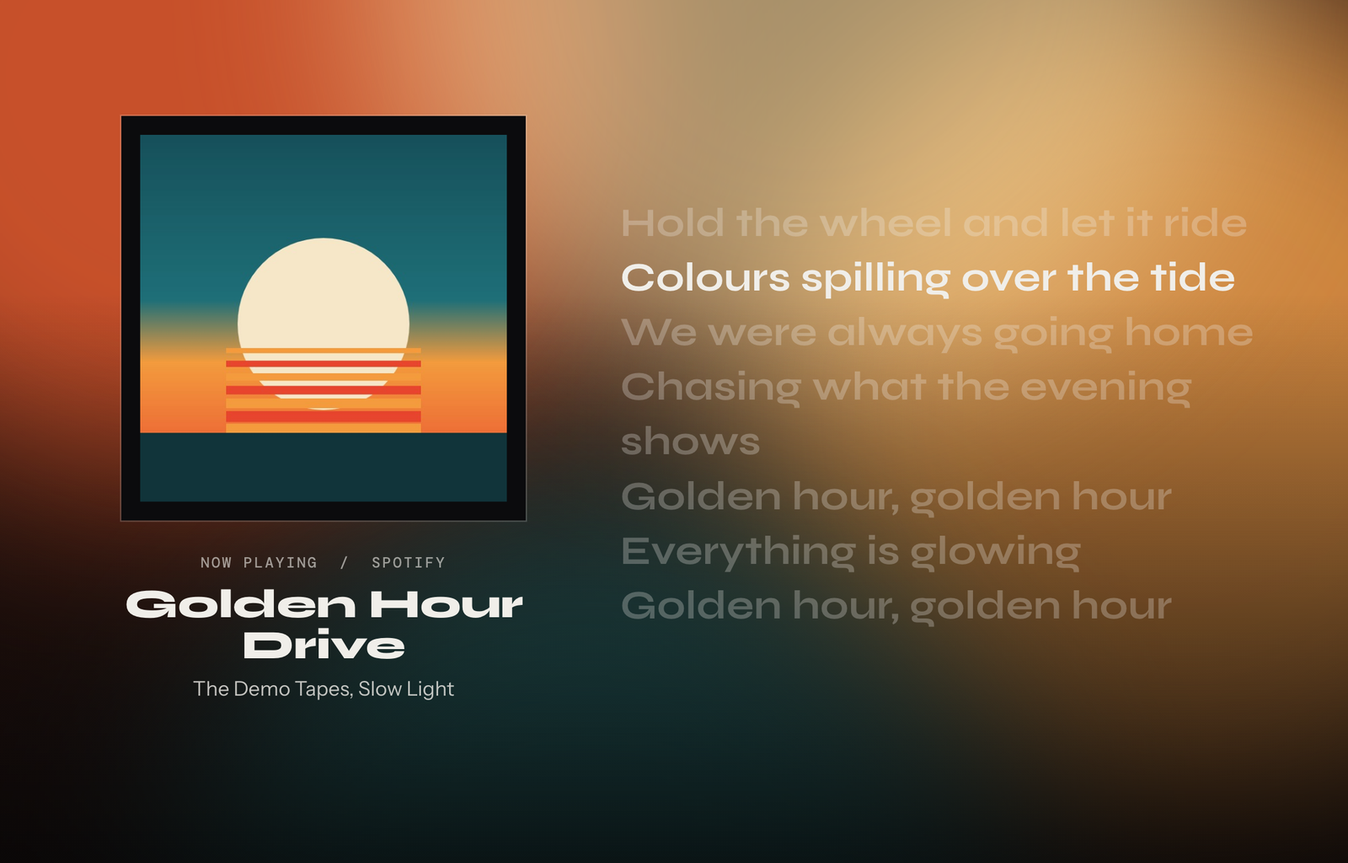
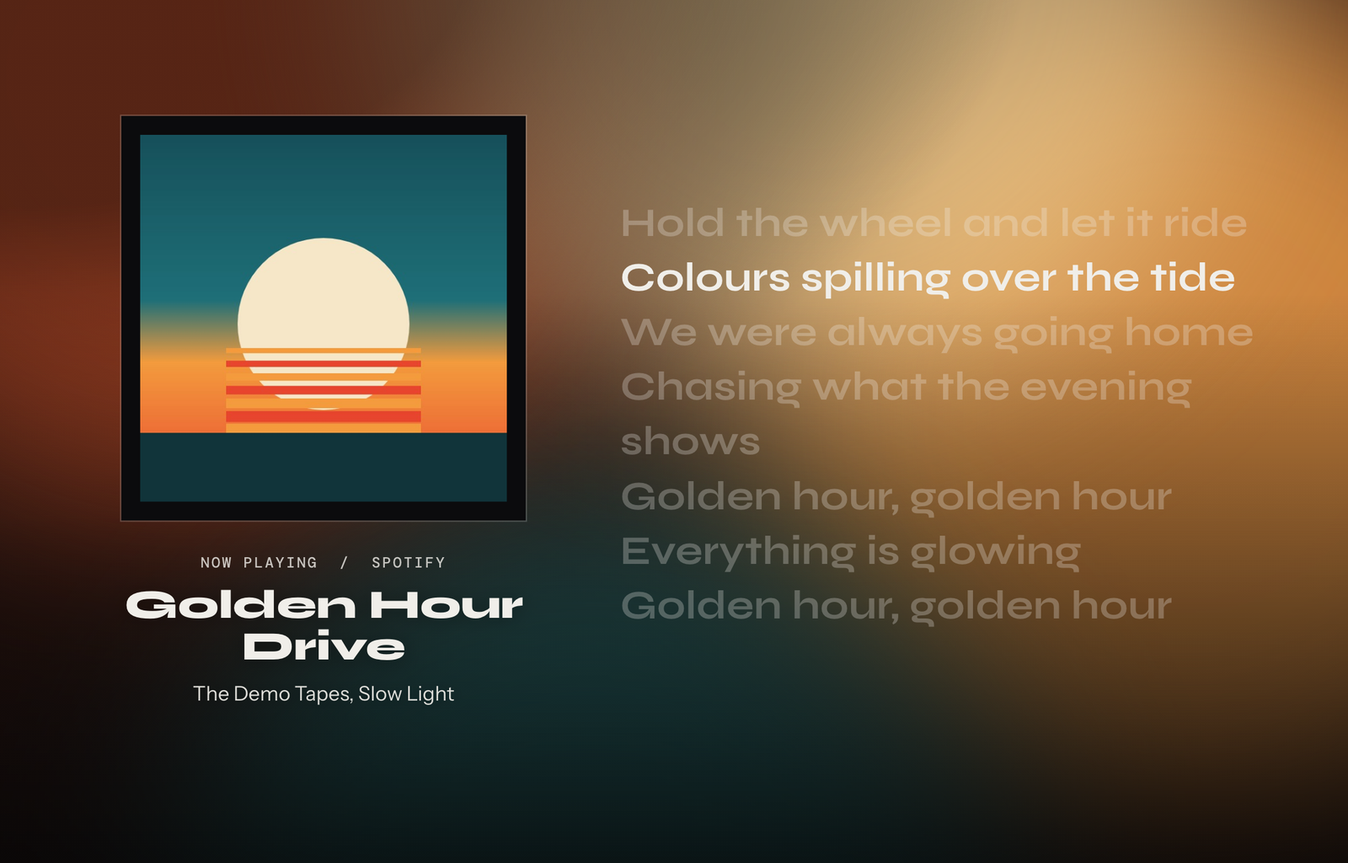
Brightness check for each lamp, lyrics never cut off, Stage main screen redesigned after a design review

Changed region(s): [[0.0, 0.0, 0.6562, 0.5], [0.0938, 0.6875, 0.3438, 0.8125], [0.3125, 0.6875, 0.375, 0.7188]]

diff --git a/server/web/demo.js b/server/web/demo.js
@@ -5,6 +5,7 @@
      /?demo=1&theme=c&screen=full          screens: main, full, settings, lyrics (lyrics is the phone one)
      /?demo=1&theme=d&screen=full&lyrics=1 full screen with the synced lyrics
      &pos=71                               where in the song it is, in seconds
+     &pal=cool|pale   &title=long|one   &art=none   &playing=0   &power=0   &ly=long     other situations to check a design against
 
    Nothing is read from or sent to the real server while it is on: state comes from here, and every
    command is swallowed, so clicking around cannot touch your lamps. Loaded only when ?demo=1 is in the address. */
@@ -13,37 +14,50 @@
   var Q = new URLSearchParams(location.search);
   var START = +Q.get('pos') || 71, T0 = Date.now();
 
+  // palettes to check the designs against: warm (the default), cool (blue and navy) and pale (pastel, near white)
+  var PALS = {
+    warm: { sky: ['#16505a', '#1e6f78', '#f39b3d', '#e8452f'], sun: '#f6e7c8', a: '#e8452f', b: '#f39b3d', sea: '#10343a',
+      left: ['#e8452f', '#ee5f31', '#f37c38', '#f6a24a', '#f6c776', '#f6dfa6', '#fff3dc'], right: ['#1e6f78', '#2b8587', '#58a07f', '#b9b45c', '#f39b3d', '#ef6a33', '#e8452f'],
+      raw: ['#e8452f', '#f39b3d', '#1e6f78', '#f6e7c8', '#7a2e3a'], lamp: ['#ee5f31', '#f6a24a', '#2b8587', '#f6dfa6', '#9a3f4c'] },
+    cool: { sky: ['#0b1d4a', '#1d3f8f', '#4f86d6', '#a9d3f0'], sun: '#e8f3ff', a: '#2c5db8', b: '#6fa6e8', sea: '#08142e',
+      left: ['#0b1d4a', '#14307a', '#1d4aa8', '#2f6bd0', '#4f8ce0', '#86b6ee', '#d6e8fb'], right: ['#d6e8fb', '#86b6ee', '#4f8ce0', '#2f6bd0', '#1d4aa8', '#14307a', '#0b1d4a'],
+      raw: ['#0b1d4a', '#1d4aa8', '#4f8ce0', '#d6e8fb', '#27406e'], lamp: ['#14307a', '#2f6bd0', '#86b6ee', '#d6e8fb', '#27406e'] },
+    pale: { sky: ['#f4e9ef', '#f0dcdf', '#f7e6cf', '#e5eef0'], sun: '#fffaf0', a: '#e9c5cf', b: '#f2d9b8', sea: '#d9e6ea',
+      left: ['#e9c5cf', '#eccdd0', '#efd5d0', '#f2dcc8', '#f5e3c8', '#f8ecd8', '#fffaf0'], right: ['#d9e6ea', '#dfe9e6', '#e5ecdf', '#ebeed7', '#f1ecd1', '#f5e8d0', '#f7e1d4'],
+      raw: ['#e9c5cf', '#f2d9b8', '#d9e6ea', '#fffaf0', '#cdb8c2'], lamp: ['#eccdd0', '#f2dcc8', '#dfe9e6', '#fffaf0', '#d6c4cc'] }
+  };
+  var P = PALS[Q.get('pal')] || PALS.warm;
   function cover() {                     // abstract sunset cover, drawn here so no real album art is needed
     var c = document.createElement('canvas'); c.width = c.height = 640;
     var g = c.getContext('2d'), sky = g.createLinearGradient(0, 0, 0, 640);
-    sky.addColorStop(0, '#16505a'); sky.addColorStop(0.45, '#1e6f78'); sky.addColorStop(0.62, '#f39b3d'); sky.addColorStop(1, '#e8452f');
+    sky.addColorStop(0, P.sky[0]); sky.addColorStop(0.45, P.sky[1]); sky.addColorStop(0.62, P.sky[2]); sky.addColorStop(1, P.sky[3]);
     g.fillStyle = sky; g.fillRect(0, 0, 640, 640);
-    g.fillStyle = '#f6e7c8'; g.beginPath(); g.arc(320, 330, 150, 0, 6.2832); g.fill();
-    for (var i = 0; i < 7; i++) { g.fillStyle = i % 2 ? '#e8452f' : '#f39b3d'; g.fillRect(150, 372 + i * 22, 340, 9 + i * 2); }   // sun stripes over the water
-    g.fillStyle = '#10343a'; g.fillRect(0, 520, 640, 120);
+    g.fillStyle = P.sun; g.beginPath(); g.arc(320, 330, 150, 0, 6.2832); g.fill();
+    for (var i = 0; i < 7; i++) { g.fillStyle = i % 2 ? P.a : P.b; g.fillRect(150, 372 + i * 22, 340, 9 + i * 2); }   // sun stripes over the water
+    g.fillStyle = P.sea; g.fillRect(0, 520, 640, 120);
     return c.toDataURL('image/jpeg', 0.92);
   }
-  var ART = cover();
-  var LEFT = ['#e8452f', '#ee5f31', '#f37c38', '#f6a24a', '#f6c776', '#f6dfa6', '#fff3dc'];
-  var RIGHT = ['#1e6f78', '#2b8587', '#58a07f', '#b9b45c', '#f39b3d', '#ef6a33', '#e8452f'];
+  var ART = Q.get('art') === 'none' ? '' : cover();
+  var LEFT = P.left, RIGHT = P.right;
   var DUR = 218;
 
   function state() {
     var pos = Math.min(DUR - 1, START + (Date.now() - T0) / 1000);
     return {
-      track: 'Golden Hour Drive', artist: 'The Demo Tapes', album: 'Slow Light', art_url: ART,
+      track: Q.get('title') === 'long' ? 'The Ballad of Someone With A Very Long Name (Remastered 2011)' : Q.get('title') === 'one' ? 'Go' : 'Golden Hour Drive',
+      artist: Q.get('title') === 'long' ? 'An Artist With A Rather Long Name And Friends' : 'The Demo Tapes', album: 'Slow Light', art_url: ART,
       hex1: LEFT[3], hex2: RIGHT[3], seg_colors: LEFT, seg_colors_right: RIGHT,
-      palette_raw: ['#e8452f', '#f39b3d', '#1e6f78', '#f6e7c8', '#7a2e3a'], palette_lamp: ['#ee5f31', '#f6a24a', '#2b8587', '#f6dfa6', '#9a3f4c'],
+      palette_raw: P.raw, palette_lamp: P.lamp,
       spatial_mode: 'segmented', motion_mode: 'static', flow_speed: 12, trans_speed: 3, vibrancy: 1.15,
       version: '3.2.1', update_available: false, update_version: '3.2.1', update_url: 'https://github.com/omerham/glowtrack/releases/latest',
       update_checked_at: 1, check_updates: true,
       music_pulse: true, current_bpm: 118, detected_bpm: 118, bpm_source: 'Deezer', bpm_manual: false, bpm_known: true, pulse_depth: 0.6,
-      brightness: 85, is_powered_on: true, lamp_ips: ['192.168.1.21', '192.168.1.22'], available_ips: ['192.168.1.21', '192.168.1.22'],
+      brightness: 85, is_powered_on: Q.get('power') !== '0', lamp_ips: ['192.168.1.21', '192.168.1.22'], available_ips: ['192.168.1.21', '192.168.1.22'],
       left_ip: '192.168.1.21', right_ip: '192.168.1.22', lamp_online: { '192.168.1.21': true, '192.168.1.22': true },
       identifying_ip: null, online_count: 2, configured_count: 2, status_known: true, status_error: '',
       is_swapped_lr: false, is_inverted_tb: false, dynamic_intensity: false, dark_boost: 0.65, preview_mode: 'smooth', fs_motion: 3,
       white_accent: true, volume: 60, shuffle: false, repeat: false, flow: null, intensity_factor: 1, intensity_section: 'Normal',
-      player_pos: pos, track_dur: DUR, is_playing: true, locked_swatch_index: null, is_ad: false,
+      player_pos: pos, track_dur: DUR, is_playing: Q.get('playing') !== '0', locked_swatch_index: null, is_ad: false,
       devices: [], discovered_devices: [], scanning_devices: false, player: 'spotify', source_name: 'Spotify', default_theme: 'classic',
       can_shuffle_repeat: true
     };
@@ -54,6 +68,17 @@
     'Hold the wheel and let it ride', 'Colours spilling over the tide', 'We were always going home', 'Chasing what the evening shows',
     'Golden hour, golden hour', 'Everything is glowing', 'Golden hour, golden hour', 'Nowhere left to be going'
   ].map(function (w, i) { return [Math.round((12 + i * 6.5) * 100) / 100, w]; });
+
+  if (Q.get('ly') === 'long') {         // long lines wrap onto several rows: a check that the lyrics column never cuts them off
+    LYRICS = ['Windows down on the coast road while the whole sky turns to amber and the radio hums along',
+      'Every light along the harbour is leaning slowly over toward the water and the waiting tide',
+      'We were always going home the long way round, counting all the colours on the wet and shining street',
+      'Hold the wheel and let it ride, there is nowhere left to be and nothing left to prove tonight',
+      'Golden hour, golden hour, everything is glowing and the evening shows us what we came here for',
+      'Chasing what the evening shows us, every window every wave a little lighter than before',
+      'Nowhere left to be going when the light is falling like this over the edge of everything we know',
+      'And we keep on driving into the colours until the colours have all gone'].map(function (w, i) { return [Math.round((12 + i * 6.5) * 100) / 100, w]; });
+  }
 
   function json(obj) { return Promise.resolve(new Response(JSON.stringify(obj), { status: 200, headers: { 'Content-Type': 'application/json' } })); }
   var realFetch = window.fetch.bind(window);
@@ -84,11 +109,15 @@
   }
   window.addEventListener('load', function () { setTimeout(function () { window.dispatchEvent(new Event('resize')); }, 700); });   // fit the layout once fonts and sizes have settled
   if (Q.get('shot') === '1') {           // for screenshots: nothing mid-fade, so the picture is the finished state
-    var st = document.createElement('style'); st.textContent = '*:not(#trackProgressBar):not(#fsProgressBar), *::before, *::after { transition: none !important; } #themeRoot { padding: 0 !important; }'; document.head.appendChild(st);
+    var st = document.createElement('style'); st.textContent = (Q.get('notext') === '1' ? '#themeRoot *, #themeRoot *::before { color: transparent !important; text-shadow: none !important; } ' : '') + '*:not(#trackProgressBar):not(#fsProgressBar), *::before, *::after { transition: none !important; } #themeRoot { padding: 0 !important; }'; document.head.appendChild(st);
   }
   window.addEventListener('load', function () {         // where the design sits in the window, so a screenshot can be cropped to it
     setTimeout(function () {
       var d = document.querySelector('#themeRoot:not([hidden]) .design'), r = (d || document.getElementById('appShell') || document.body).getBoundingClientRect();
+      var boxes = {}; ['.credit .k', '.credit h3', '.credit p', '.modes .m:not(.on)', '.dock .t', '.dock .tl2 span'].forEach(function (sel) {   // where the text sits, for contrast checks
+        var e = document.querySelector('#themeRoot .design ' + sel); if (e) { var b = e.getBoundingClientRect(), cs = getComputedStyle(e); boxes[sel] = [b.left, b.top, b.width, b.height, cs.color, cs.opacity]; }
+      });
+      document.documentElement.setAttribute('data-boxes', JSON.stringify(boxes));
       if (r) document.documentElement.setAttribute('data-rect', JSON.stringify([r.left, r.top, r.width, r.height, window.devicePixelRatio, window.innerWidth, window.innerHeight]));
     }, 2500);
   });

diff --git a/server/web/themes.css b/server/web/themes.css
@@ -119,36 +119,49 @@
 .dbg .b2 { right: -20vmax; top: 4vh; background: var(--p1); animation: dbgB 47s ease-in-out infinite alternate; }
 .dbg .b3 { left: 12vw; bottom: -34vmax; background: var(--p2); animation: dbgC 53s ease-in-out infinite alternate; }
 .dbg .b4 { right: 8vw; top: -30vmax; background: var(--p3); opacity: .6; animation: dbgD 41s ease-in-out infinite alternate; }
-.dbg .vig { position: absolute; inset: 0; background: linear-gradient(to bottom, transparent 36%, rgba(4,4,5,.5) 68%, rgba(4,4,5,.93) 100%); }
+.dbg .vig { position: absolute; inset: 0; background: radial-gradient(ellipse 840px 470px at 0 0, rgba(4,4,5,var(--scrim, .45)) 0, rgba(4,4,5,var(--scrim, .45)) 46%, rgba(4,4,5,0) 100%), linear-gradient(to bottom, transparent 36%, rgba(4,4,5,.5) 68%, rgba(4,4,5,.93) 100%); }   /* the corner behind the title is darkened more when the album is light, so cream text always reads */
 @keyframes dbgA { to { transform: translate(34vw, 22vh) scale(1.25); } }
 @keyframes dbgB { to { transform: translate(-30vw, 26vh) scale(.85); } }
 @keyframes dbgC { to { transform: translate(30vw, -16vh) scale(1.3); } }
 @keyframes dbgD { to { transform: translate(-26vw, 30vh) scale(1.15); } }
 @media (prefers-reduced-motion: reduce) { .dbg .bl { animation: none; } #themeRoot *, #themeRoot *::before, #themeRoot *::after { transition-duration: .01ms !important; animation-duration: .01ms !important; scroll-behavior: auto !important; } }
-.D .lampw { position: absolute; bottom: 104px; width: 46px; display: flex; flex-direction: column-reverse; gap: 3px; transform: translateX(-50%); }
+.D .lampw { position: absolute; bottom: 132px; width: 46px; display: flex; flex-direction: column-reverse; gap: 3px; transform: translateX(-50%); }
 .D .lampw { -webkit-mask-image: linear-gradient(to top, transparent 0, rgba(0,0,0,.35) 18px, #000 72px); mask-image: linear-gradient(to top, transparent 0, rgba(0,0,0,.35) 18px, #000 72px); }
 .D .lampw i { height: 46px; background: var(--c); box-shadow: 0 0 40px 10px var(--c); }
 .D .lampw.l { left: 27%; } .D .lampw.r { left: 73%; }
 .D .frame { position: absolute; left: 50%; top: 108px; width: 364px; height: 364px; transform: translateX(-50%); padding: 12px; background: #0b0b0d; box-shadow: 0 0 0 1px rgba(255,255,255,.18); }
 .D .frame div { width: 100%; height: 100%; background-image: var(--cov); background-size: cover; }
 .D .credit { position: absolute; left: 36px; top: 34px; }
-.D .credit .k { font: 500 11px "DM Mono", monospace; letter-spacing: .12em; text-transform: uppercase; opacity: .6; margin-bottom: 8px; }
-.D .credit h3 { font: 800 34px/1.02 "Syne", sans-serif; margin: 0 0 6px; width: 380px; letter-spacing: -.01em; }
-.D .credit p { margin: 0; opacity: .8; font-size: 15px; }
+.D .credit .k { font: 500 11px "DM Mono", monospace; letter-spacing: .12em; text-transform: uppercase; opacity: .8; margin-bottom: 8px; }
+.D .credit h3 { font: 800 28px/1.04 "Syne", sans-serif; margin: 0 0 8px; width: 380px; letter-spacing: -.01em; text-shadow: 0 1px 14px rgba(0,0,0,.35); }
+.D .credit p { margin: 0; opacity: .92; font-size: 15px; text-shadow: 0 1px 10px rgba(0,0,0,.4); }
 .D .modes { position: absolute; right: 36px; top: 34px; display: flex; gap: 8px; }
 .D .m { padding: 10px 16px; border: 1px solid rgba(255,255,255,.28); font: 500 11px "DM Mono", monospace; letter-spacing: .1em; text-transform: uppercase; background: rgba(5,5,6,.5); }
 .D .m:hover { border-color: #fff; }
 .D .m.on { background: #fff; color: #08080a; border-color: #fff; }
-.D .dock { position: absolute; left: 36px; right: 36px; bottom: 26px; height: 56px; display: flex; align-items: center; gap: 26px; background: rgba(5,5,6,.78); border: 1px solid rgba(255,255,255,.12); padding: 0 20px; font: 500 11px "DM Mono", monospace; letter-spacing: .08em; text-transform: uppercase; }
+.D .dock { position: absolute; left: 36px; right: 36px; bottom: 26px; height: 88px; display: flex; flex-direction: column; justify-content: center; gap: 14px; background: rgba(5,5,6,.78); border: 1px solid rgba(255,255,255,.12); padding: 0 20px; font: 500 11px "DM Mono", monospace; letter-spacing: .08em; text-transform: uppercase; }
+.D .dock .r1, .D .dock .r2 { display: flex; align-items: center; gap: 22px; }
 .D .dock .tp { display: flex; gap: 6px; }
 .D .dock .tp button { width: 34px; height: 34px; display: grid; place-items: center; border: 1px solid rgba(255,255,255,.2); }
 .D .dock .tp button.on { background: #fff; color: #000; }
-.D .dock .tl2 { flex: 1; display: flex; align-items: center; gap: 12px; }
-.D .dock .tl2 .tk { position: relative; flex: 1; height: 2px; background: rgba(255,255,255,.22); }
+.D .dock .tl2 { flex: 1; display: flex; align-items: center; gap: 14px; }
+.D .dock .tl2 .tk { position: relative; flex: 1; height: 2px; background: rgba(255,255,255,.22); cursor: pointer; }
 .D .dock .tl2 .tk i { position: absolute; left: 0; top: -1px; height: 4px; width: calc(var(--prog) * 100%); background: #fff; }
-.D .dock input[type=range] { width: 120px; accent-color: #fff; }
-.D .dock .t { opacity: .5; padding: 6px 0; border-bottom: 1px solid transparent; }
-.D .dock .t.on { opacity: 1; border-bottom-color: #fff; }
+.D .dock .r2 { justify-content: space-between; }
+.D .dock .br { display: flex; align-items: center; gap: 14px; }
+.D .dock input[type=range] { width: 200px; accent-color: #fff; }
+.D .dock .tg { display: flex; gap: 22px; }
+.D .dock .nv { display: flex; gap: 22px; padding-left: 22px; border-left: 1px solid rgba(255,255,255,.2); }
+.D .dock .t { opacity: .9; padding: 6px 0; border-bottom: 1px solid transparent; }
+.D .dock .t.sw { opacity: .62; display: flex; align-items: center; gap: 8px; }          /* switches: a square that fills when on */
+.D .dock .t.sw::before { content: ''; width: 8px; height: 8px; border: 1px solid currentColor; }
+.D .dock .t.sw.on { opacity: 1; }
+.D .dock .t.sw.on::before { background: #fff; border-color: #fff; }
+.D .dock .t.on { border-bottom-color: transparent; }
+/* phone: the dock is still one wrapping block with the older look for its buttons */
+.D.ph .dock { flex-direction: row; }
+.D.ph .dock .t { opacity: .5; }
+.D.ph .dock .t.on { opacity: 1; border-bottom-color: #fff; }
 
 
 /* ============ shared: lyrics + settings primitives ============ */

diff --git a/server/web/themes.js b/server/web/themes.js
@@ -80,10 +80,11 @@
         '<div class="frame"><div></div></div>' +
         '<div class="credit"><div class="k">Now playing &nbsp;/&nbsp; <span data-b="src"></span></div><h3 data-b="title"></h3><p data-b="artistalbum"></p></div>' +
         '<div class="modes">' + MODES.map(pic).join('') + '</div>' +
-        '<div class="dock"><div class="tp"><button data-step="-1" aria-label="Previous">' + ICON.prev + '</button><button data-play aria-label="Play or pause"><span data-b="playicon"></span></button><button data-step="1" aria-label="Next">' + ICON.next + '</button></div>' +
-        '<div class="tl2"><span data-b="pos"></span><div class="tk" data-seek><i></i></div><span data-b="dur"></span></div>' +
-        '<label style="display:flex;align-items:center;gap:10px">Brightness <input type="range" id="dBright" min="5" max="100" data-range aria-label="Brightness"></label>' +
-        '<button class="t" data-toggle="pulse">Pulse</button><button class="t" data-toggle="energy">Energy</button><button class="t" data-power>Power</button><button class="t" data-open="settings">Settings</button><button class="t" data-open="full">Full screen</button></div></div>';
+        '<div class="dock"><div class="r1"><div class="tp"><button data-step="-1" aria-label="Previous">' + ICON.prev + '</button><button data-play aria-label="Play or pause"><span data-b="playicon"></span></button><button data-step="1" aria-label="Next">' + ICON.next + '</button></div>' +
+        '<div class="tl2"><span data-b="pos"></span><div class="tk" data-seek><i></i></div><span data-b="dur"></span></div></div>' +
+        '<div class="r2"><label class="br">Brightness <input type="range" id="dBright" min="5" max="100" data-range aria-label="Brightness"></label>' +
+        '<div class="tg"><button class="t sw" data-toggle="pulse">Pulse</button><button class="t sw" data-toggle="energy">Energy</button><button class="t sw" data-power>Power</button></div>' +
+        '<div class="nv"><button class="t" data-open="settings">Settings</button><button class="t" data-open="full">Full screen</button></div></div></div></div>';
     }
   };
 
@@ -352,6 +353,8 @@
     if (T.sig.pal !== palSig) {
       T.sig.pal = palSig;
       pal.forEach(function (c, i) { var r = rgb(c); root.style.setProperty('--p' + i, c); root.style.setProperty('--t' + i, bestText(r)); });
+      var yl = Math.max(wl(rgb(pal[0])), wl(rgb(pal[1])) * 0.6, wl(rgb(pal[3])) * 0.6, 0.2);   // how light the colours behind the title can get
+      root.style.setProperty('--scrim', Math.max(0.3, Math.min(0.86, 1 - 0.19 / yl)).toFixed(2));    // darken that corner just enough for cream text to read (about 4.5:1)
       if (d === 'c') root.style.background = pal[0]; else root.style.background = '';
       root.style.setProperty('--cov', 'radial-gradient(circle at 24% 22%, ' + pal[0] + ' 0 34%, transparent 62%), radial-gradient(circle at 78% 78%, ' + pal[1] + ' 0 30%, transparent 60%), linear-gradient(135deg, ' + pal[2] + ', ' + pal[3] + ')');
       T.sig.art = null;
@@ -491,7 +494,16 @@
     } else {
       html = '<div class="l cur msg">' + ({ loading: 'Loading lyrics...', instrumental: 'Instrumental', error: 'Could not load lyrics', none: 'No lyrics found for this song' }[st] || 'No lyrics') + '</div>';
     }
-    holders.forEach(function (h) { h.innerHTML = html; });
+    holders.forEach(function (h) {
+      h.innerHTML = html;
+      // Long lines wrap onto several rows, so fewer of them fit: show only as many as the column holds
+      // (dropping from the end, so the line being sung and the ones before it always stay visible)
+      while (h.children.length > 2) {
+        var hb = h.getBoundingClientRect(), a = h.firstElementChild.getBoundingClientRect(), z = h.lastElementChild.getBoundingClientRect();
+        if (hb.height < 40 || (z.bottom <= hb.bottom + 1 && a.top >= hb.top - 1)) break;
+        h.removeChild(h.lastElementChild);
+      }
+    });
   }
   function esc(t) { return String(t).replace(/[&<>]/g, function (c) { return { '&': '&amp;', '<': '&lt;', '>': '&gt;' }[c]; }); }
 

diff --git a/server/lamps.py b/server/lamps.py
@@ -39,6 +39,9 @@ class GoveeController:
 
         # Lamp reply tracking (scan + devStatus answers arrive on port 4002)
         self.last_seen = {}            # ip -> time of last reply
+        self.status = {}               # ip -> what the lamp last said about itself: on/off, brightness, colour
+        self._heal_tries = {}          # ip -> brightness corrections sent in a row
+        self._heal_gave_up = {}        # ip -> when we stopped correcting it
         self.listener_ok = False       # False if port 4002 could not be opened
         self.listener_error = ""
         self.ip_lock = threading.Lock()
@@ -76,6 +79,9 @@ class GoveeController:
                     resp = json.loads(data.decode("utf-8"))
                     data_ = resp.get("msg", {}).get("data", {})
                     reported_ip = data_.get("ip") or src_ip
+                    if resp.get("msg", {}).get("cmd") == "devStatus" and "brightness" in data_:
+                        self.status[src_ip] = {"on": data_.get("onOff"), "brightness": data_.get("brightness"),
+                                               "color": data_.get("color"), "kelvin": data_.get("colorTemInKelvin"), "t": time.time()}
                     if data_.get("sku") and _is_local_ip(reported_ip):
                         self.skus[reported_ip] = str(data_["sku"])
                 except Exception:
@@ -131,7 +137,46 @@ class GoveeController:
                     d.ping()
                 except Exception:
                     pass
-            time.sleep(15.0)
+            time.sleep(1.5)                      # let the lamps answer, then check what they said
+            try:
+                self.heal_brightness()
+            except Exception as e:
+                print(f"[!] Brightness check failed: {e}")
+            time.sleep(13.5)
+
+    BRIGHTNESS_TOLERANCE = 3       # a lamp within this many percent of the wanted level counts as right
+    BRIGHTNESS_TRIES = 8           # corrections tried in a row (one every 15 s) before giving up for a while
+    BRIGHTNESS_BURST = 3           # copies of each correction: UDP drops packets, and a lamp busy with colour frames misses some
+
+    def heal_brightness(self, now=None):
+        """Makes every lamp match the brightness Glowtrack is set to. The brightness command is only sent when the
+        slider moves (and once at start), so a lamp that missed it, was offline at that moment or was changed from
+        the Govee app stays at its own level while the other lamp is right. Each lamp reports its brightness in its
+        status reply: when it differs, send the command to that lamp alone."""
+        now = time.time() if now is None else now
+        want = max(1, min(100, int(self.brightness_pct)))
+        for ip in list(self.ips):
+            st = self.status.get(ip)
+            if not st or now - st["t"] > 30 or not st.get("on"):
+                continue                         # no fresh report, or the lamp is off: nothing to compare
+            try:
+                have = int(st["brightness"])
+            except (TypeError, ValueError):
+                continue
+            if abs(have - want) <= self.BRIGHTNESS_TOLERANCE:
+                self._heal_tries[ip] = 0
+                continue
+            tries = self._heal_tries.get(ip, 0)
+            if tries >= self.BRIGHTNESS_TRIES:
+                if now - self._heal_gave_up.get(ip, now) > 300:      # try again every five minutes
+                    self._heal_tries[ip] = 0
+                self._heal_gave_up.setdefault(ip, now)
+                continue
+            self._heal_tries[ip] = tries + 1
+            print(f"[*] Lamp {ip} was at {have}% brightness, wanted {want}%: correcting")
+            for _ in range(self.BRIGHTNESS_BURST):
+                self.send_cmd({"msg": {"cmd": "brightness", "data": {"value": want}}}, ips=[ip])
+                time.sleep(0.12)
 
     def sync_ordered_ips(self):
         new_ips = []

diff --git a/tests/test_engine.py b/tests/test_engine.py
@@ -938,6 +938,51 @@ class OtherDevicesTest(unittest.TestCase):
         self.assertEqual((again.name, again.side), ("Beam", "right"))
 
 
+class BrightnessHealTest(unittest.TestCase):
+    def _lamps(self, want=100):
+        import lamps
+        c = lamps.GoveeController(["10.0.0.1", "10.0.0.2"])
+        c.brightness_pct = want
+        sent = []
+        c.send_cmd = lambda msg, ips=None: sent.append((msg["msg"]["cmd"], msg["msg"]["data"].get("value"), ips))
+        return c, sent
+
+    def _report(self, c, ip, brightness, on=1, t=None):
+        c.status[ip] = {"on": on, "brightness": brightness, "color": None, "kelvin": 0, "t": time.time() if t is None else t}
+
+    def test_a_lamp_at_the_wrong_brightness_is_corrected_alone(self):
+        c, sent = self._lamps(100)
+        self._report(c, "10.0.0.1", 5)              # the left lamp missed the command
+        self._report(c, "10.0.0.2", 100)
+        c.heal_brightness()
+        self.assertEqual(sent, [("brightness", 100, ["10.0.0.1"])] * c.BRIGHTNESS_BURST)     # only that lamp, a few copies
+
+    def test_lamps_that_match_are_left_alone(self):
+        c, sent = self._lamps(80)
+        self._report(c, "10.0.0.1", 80)
+        self._report(c, "10.0.0.2", 82)             # within the tolerance
+        c.heal_brightness()
+        self.assertEqual(sent, [])
+
+    def test_off_or_silent_lamps_are_not_touched(self):
+        c, sent = self._lamps(100)
+        self._report(c, "10.0.0.1", 5, on=0)
+        self._report(c, "10.0.0.2", 5, t=time.time() - 120)      # report too old
+        c.heal_brightness()
+        self.assertEqual(sent, [])
+
+    def test_it_gives_up_instead_of_fighting_a_lamp(self):
+        c, sent = self._lamps(100)
+        now = time.time()
+        for i in range(10):
+            self._report(c, "10.0.0.1", 5, t=now + i)
+            c.heal_brightness(now=now + i)
+        self.assertEqual(len(sent), c.BRIGHTNESS_TRIES * c.BRIGHTNESS_BURST)   # a limited number of tries, then it stops
+        self._report(c, "10.0.0.1", 100, t=now + 20)
+        c.heal_brightness(now=now + 20)
+        self.assertEqual(c._heal_tries["10.0.0.1"], 0)           # and starts fresh once the lamp is right
+
+
 class ReleaseLampsTest(unittest.TestCase):
     def _controller(self, powered=True):
         import lamps

diff --git a/tools/make_screenshots.py b/tools/make_screenshots.py
@@ -32,11 +32,18 @@ for t in ("a", "b", "c", "d"):
     SHOTS.append((f"{NAMES[t]}-phone", f"theme={t}", PHONE, 640))
 
 
-def chrome(args, url):
-    profile = tempfile.mkdtemp()
-    cmd = [CHROME, "--headless=new", "--disable-gpu", "--hide-scrollbars", "--force-device-scale-factor=2",
-           "--virtual-time-budget=9000", f"--user-data-dir={profile}"] + args + [url]
-    return subprocess.run(cmd, capture_output=True, text=True, timeout=120)
+def chrome(args, url, tries=3):
+    """Runs Chrome once. Headless Chrome now and then hangs for no reason, so a run that takes too long is
+    stopped (with its helper processes) and tried again."""
+    for attempt in range(tries):
+        profile = tempfile.mkdtemp()
+        cmd = [CHROME, "--headless=new", "--disable-gpu", "--hide-scrollbars", "--force-device-scale-factor=2",
+               "--virtual-time-budget=9000", f"--user-data-dir={profile}"] + args + [url]
+        try:
+            return subprocess.run(cmd, capture_output=True, text=True, timeout=60)
+        except subprocess.TimeoutExpired:
+            subprocess.run(["pkill", "-f", profile], capture_output=True)
+    sys.exit("Chrome kept hanging; try again")
 
 
 def take(base, name, query, window, width):

diff --git a/server/engine.py b/server/engine.py
@@ -830,6 +830,7 @@ class AppState:
             "available_ips": g.all_ips,
             "left_ip": g.left_ip,
             "right_ip": g.right_ip,
+            "lamp_status": {ip: {k: v for k, v in s.items() if k != "t"} for ip, s in self.govee.status.items()},
             "lamp_online": {ip: g.is_online(ip) for ip in g.all_ips},
             "identifying_ip": self.identifying_ip,
             "online_count": sum(1 for ip in sides if g.is_online(ip)),
